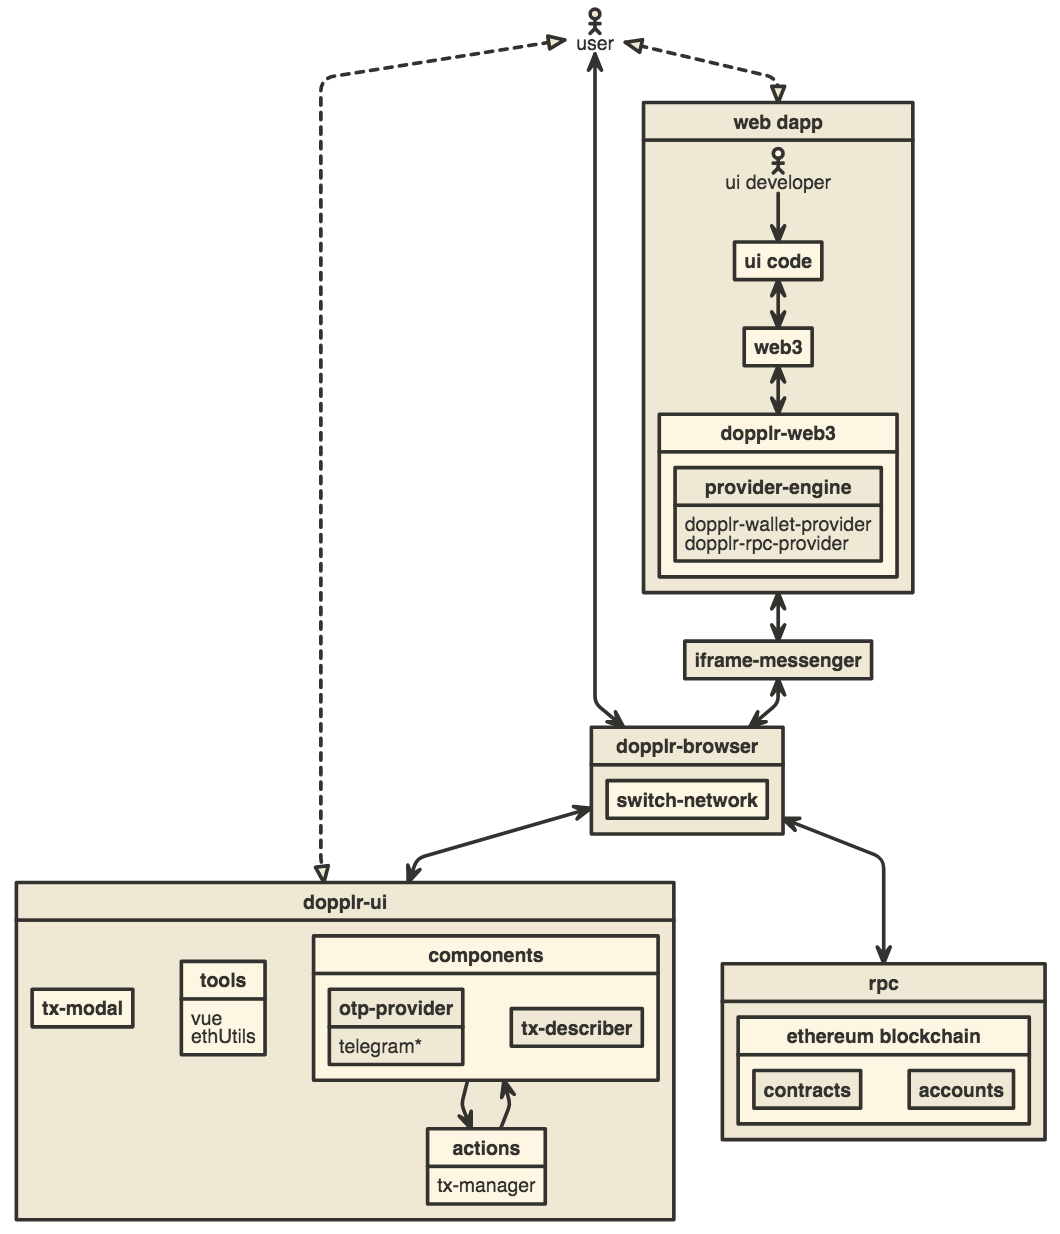
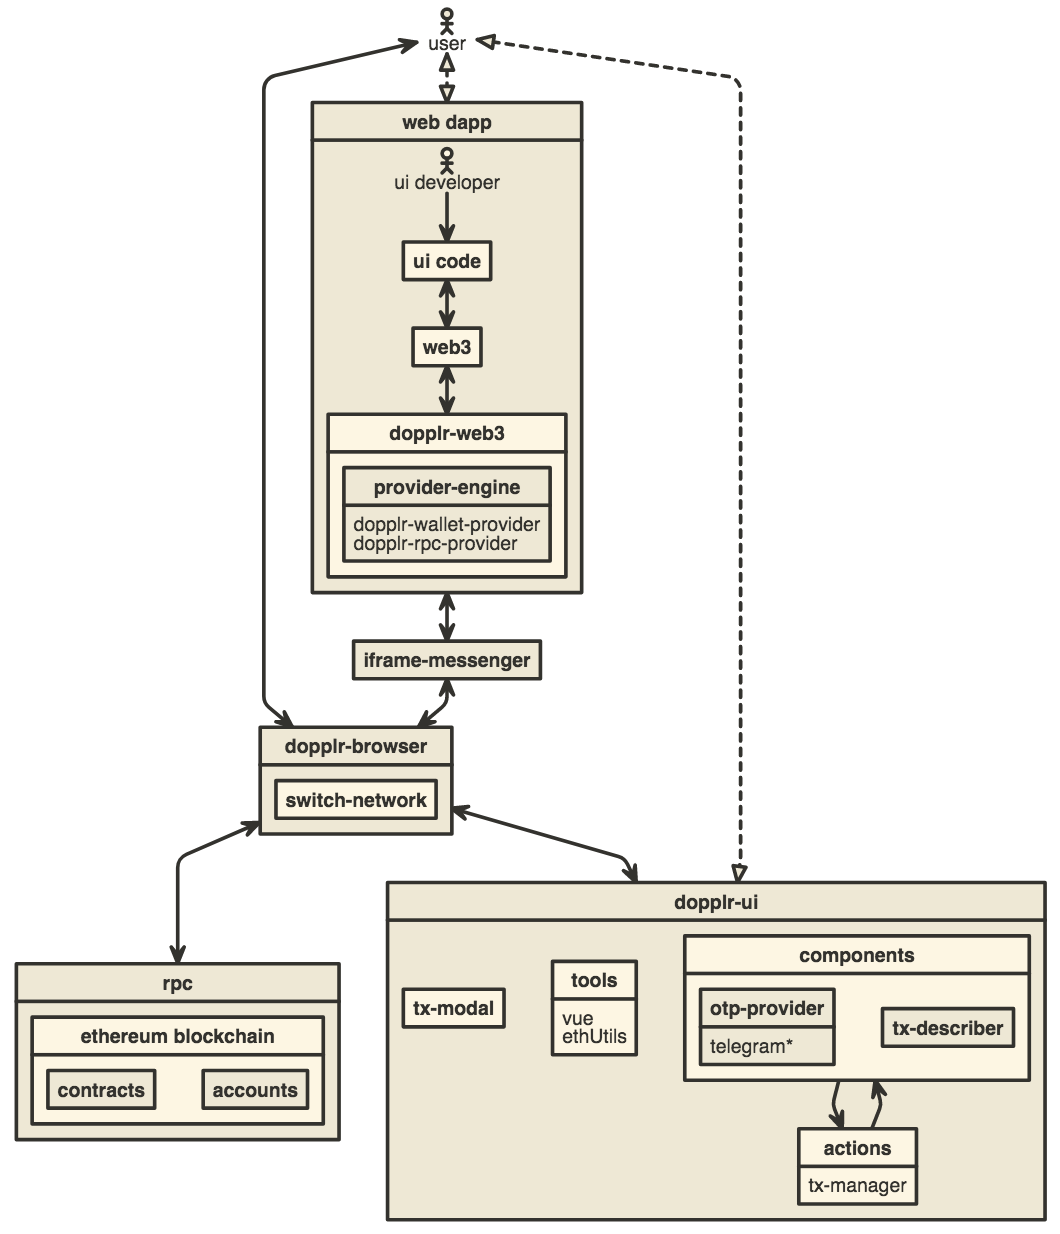
Rearrange architecture

diff --git a/README.md b/README.md
@@ -7,7 +7,7 @@ Visit https://dopplr.io
 
 ## Architecture
 
-[![Architecture Diagram](./arch.png)](http://www.nomnoml.com/#view/%5B%3Cactor%3Euser%5D%0A%0A%5Buser%5D%3C%3A--%3A%3E%5Bdopplr-ui%5D%0A%5Buser%5D%3C-%3E%5Bdopplr-browser%5D%0A%5Buser%5D%3C%3A--%3A%3E%5Bweb%20dapp%5D%0A%0A%0A%5Bdopplr-ui%7C%0A%20%20%20%5Btx-modal%5D%0A%20%20%20%5Btools%7C%0A%20%20%20%20%20vue%0A%20%20%20%20%20ethUtils%0A%20%20%20%5D%0A%20%20%20%5Bcomponents%7C%0A%20%20%20%20%20%5Botp-provider%7C%0A%20%20%20%20%20telegram*%5D%0A%20%20%20%20%20%5Btx-describer%5D%0A%20%20%20%5D%0A%20%20%20%5Bactions%7C%0A%20%20%20%20%20tx-manager%0A%20%20%20%5D%0A%20%20%20%5Bcomponents%5D%3A-%3E%5Bactions%5D%0A%20%20%20%5Bactions%5D%3A-%3E%5Bcomponents%5D%0A%5D%0A%0A%5Bweb%20dapp%7C%0A%20%20%5B%3Cactor%3Eui%20developer%5D%0A%20%20%5Bui%20developer%5D-%3E%5Bui%20code%5D%0A%20%20%5Bui%20code%5D%3C-%3E%5Bweb3%5D%0A%20%20%5Bweb3%5D%3C-%3E%5Bdopplr-web3%7C%0A%20%20%5Bprovider-engine%7C%0A%20%20%20%20dopplr-wallet-provider%0A%20%20%20%20dopplr-rpc-provider%5D%0A%20%20%5D%0A%5D%0A%0A%5Biframe-messenger%5D%3C-%3E%5Bdopplr-browser%5D%0A%0A%5Bdopplr-browser%7C%0A%20%20%5Bswitch-network%5D%0A%5D%0A%0A%5Brpc%20%7C%0A%20%20%5Bethereum%20blockchain%20%7C%0A%20%20%20%20%5Bcontracts%5D%0A%20%20%20%20%5Baccounts%5D%0A%20%20%5D%0A%5D%0A%0A%5Bweb%20dapp%5D%3C-%3E%5Biframe-messenger%5D%0A%0A%5Bdopplr-browser%5D%3C-%3E%5Bdopplr-ui%5D%0A%5Bdopplr-browser%5D%3C-%3E%5Brpc%5D%0A)
+[![Architecture Diagram](./arch.png)](http://www.nomnoml.com/#view/%5B%3Cactor%3Euser%5D%0A%0A%5Buser%5D%3C-%3E%5Bdopplr-browser%5D%0A%0A%5Bdopplr-browser%7C%0A%20%20%5Bswitch-network%5D%0A%5D%0A%0A%5Buser%5D%3C%3A--%3A%3E%5Bdopplr-ui%5D%0A%5Buser%5D%3C%3A--%3A%3E%5Bweb%20dapp%5D%0A%0A%5Brpc%20%7C%0A%20%20%5Bethereum%20blockchain%20%7C%0A%20%20%20%20%5Bcontracts%5D%0A%20%20%20%20%5Baccounts%5D%0A%20%20%5D%0A%5D%0A%0A%5Bdopplr-ui%7C%0A%20%20%20%5Btx-modal%5D%0A%20%20%20%5Btools%7C%0A%20%20%20%20%20vue%0A%20%20%20%20%20ethUtils%0A%20%20%20%5D%0A%20%20%20%5Bcomponents%7C%0A%20%20%20%20%20%5Botp-provider%7C%0A%20%20%20%20%20telegram*%5D%0A%20%20%20%20%20%5Btx-describer%5D%0A%20%20%20%5D%0A%20%20%20%5Bactions%7C%0A%20%20%20%20%20tx-manager%0A%20%20%20%5D%0A%20%20%20%5Bcomponents%5D%3A-%3E%5Bactions%5D%0A%20%20%20%5Bactions%5D%3A-%3E%5Bcomponents%5D%0A%5D%0A%0A%5Biframe-messenger%5D%3C-%3E%5Bdopplr-browser%5D%0A%0A%5Bweb%20dapp%7C%0A%20%20%5B%3Cactor%3Eui%20developer%5D%0A%20%20%5Bui%20developer%5D-%3E%5Bui%20code%5D%0A%20%20%5Bui%20code%5D%3C-%3E%5Bweb3%5D%0A%20%20%5Bweb3%5D%3C-%3E%5Bdopplr-web3%7C%0A%20%20%5Bprovider-engine%7C%0A%20%20%20%20dopplr-wallet-provider%0A%20%20%20%20dopplr-rpc-provider%5D%0A%20%20%5D%0A%5D%0A%0A%5Bweb%20dapp%5D%3C-%3E%5Biframe-messenger%5D%0A%5Bdopplr-browser%5D%3C-%3E%5Brpc%5D%0A%5Bdopplr-browser%5D%3C-%3E%5Bdopplr-ui%5D%0A)
 
 
 ## License
